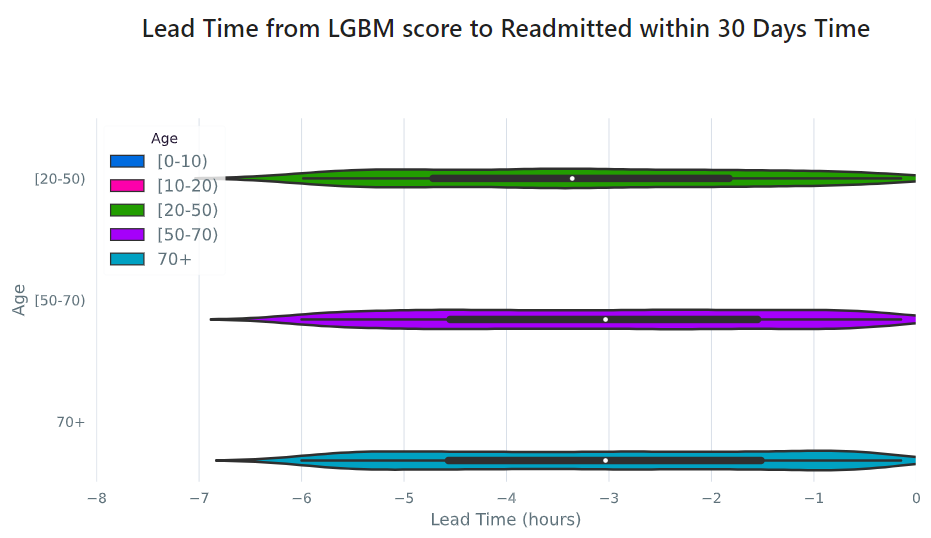
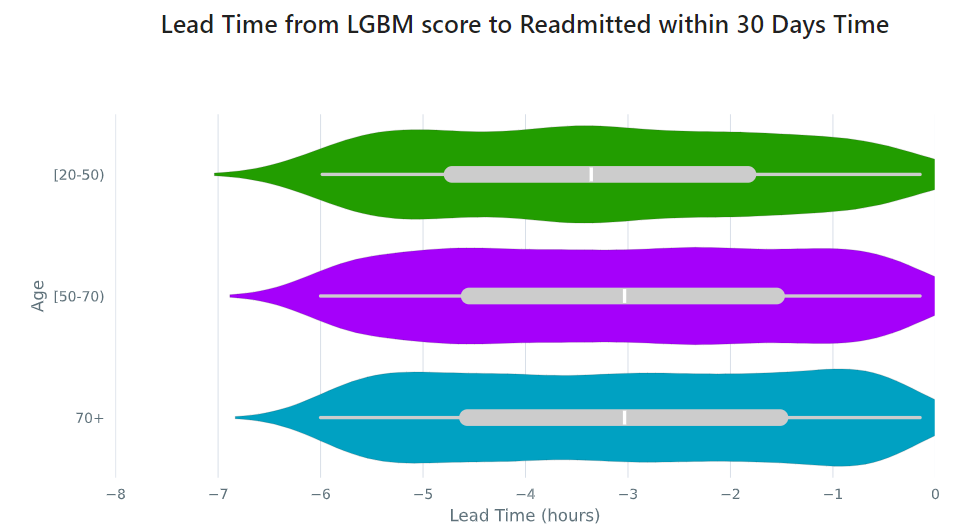
newer seaborn looks better

diff --git a/src/seismometer/plot/mpl/multi_classifier.py b/src/seismometer/plot/mpl/multi_classifier.py
@@ -113,7 +113,15 @@ def leadtime_violin(
     """
 
     sns.violinplot(
-        data=data, x=x_col, y=data[y_col].cat.remove_unused_categories(), hue=data[y_col], ax=axis, saturation=1
+        data=data,
+        x=x_col,
+        y=data[y_col].cat.remove_unused_categories(),
+        hue=data[y_col],
+        ax=axis,
+        fill=True,
+        linewidth=0.1,
+        inner_kws=dict(box_width=10, whis_width=2, color="0.8"),
+        saturation=1,
     )
 
     if xmax is not None:
